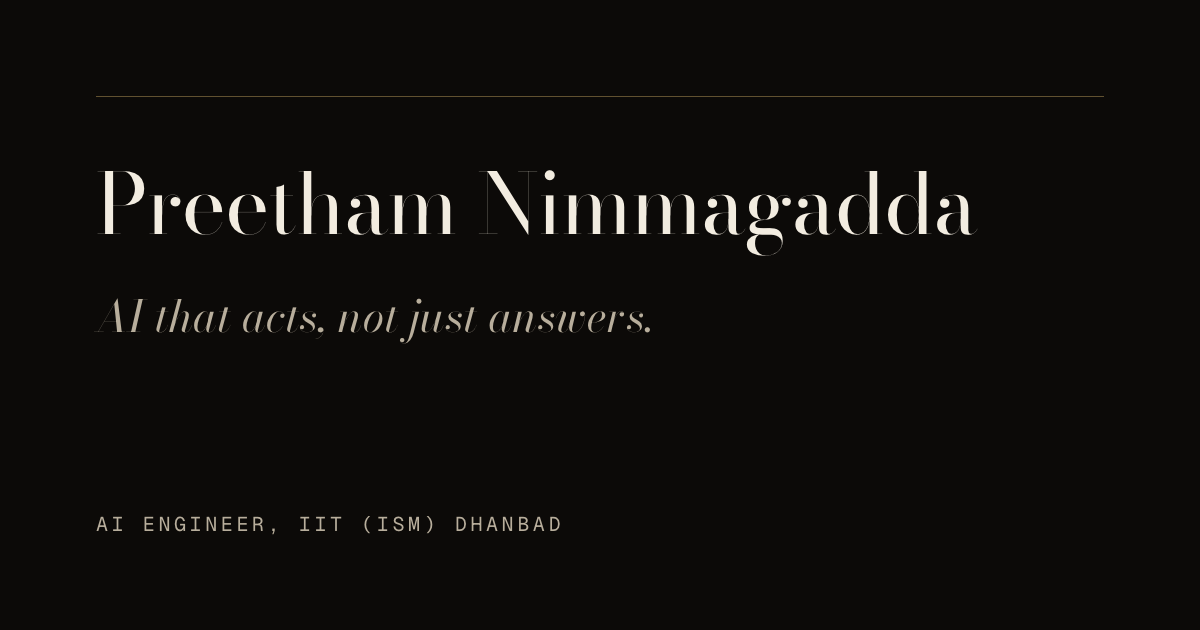
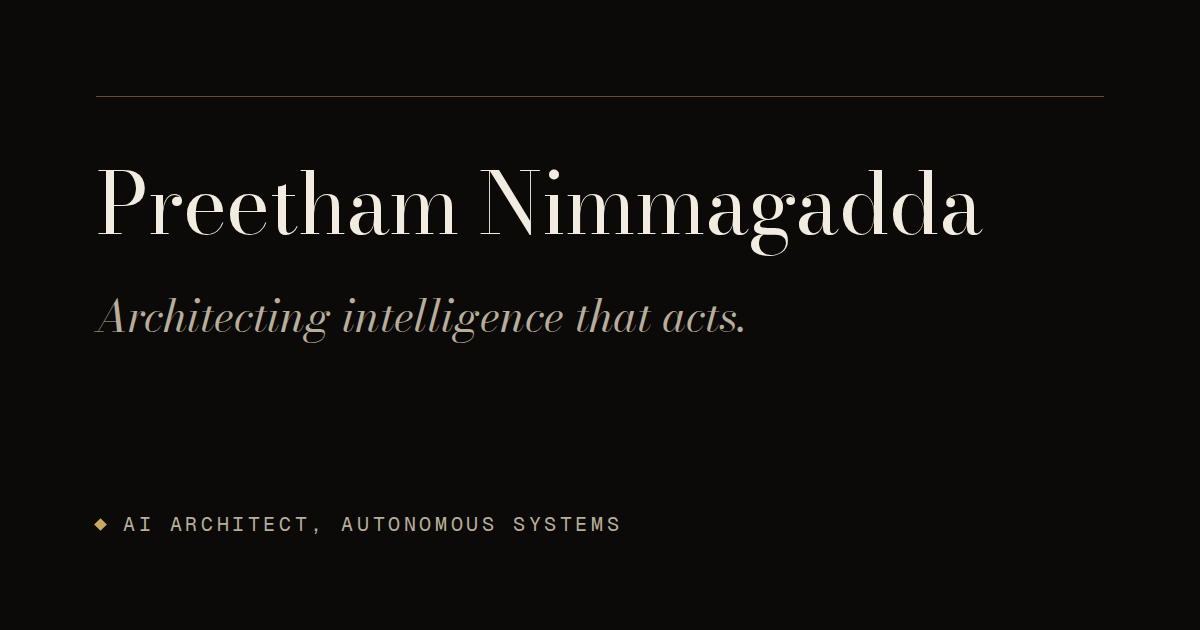
feat: re-render the social card for the AI architect positioning
The Open Graph image still read "AI that acts, not just answers" over
"AI engineer". It now carries the hero's thesis, "Architecting
intelligence that acts.", and the eyebrow with its gold detent. Rendered
from scripts/brand/og.html at 1200x630 against the Bodoni Moda and Geist
Mono files next/font ships with the build.

Claude-Session: https://claude.ai/code/session_01H1edAU7Jd55YS2Xtd13XP9

diff --git a/scripts/brand/og.html b/scripts/brand/og.html
@@ -37,13 +37,19 @@
     font-weight: 400; font-size: 20px; line-height: 1;
     letter-spacing: 0.18em; text-transform: uppercase;
     color: #B8AE9C; white-space: nowrap;
+    display: flex; align-items: center; gap: 18px;
+  }
+  /* The gold detent the hero sets before its eyebrow. */
+  .mark {
+    display: block; width: 9px; height: 9px;
+    background: #C9A961; transform: rotate(45deg);
   }
 </style>
 </head>
 <body>
   <div class="rule"></div>
   <h1 class="name">Preetham Nimmagadda</h1>
-  <p class="thesis">AI that acts, not just answers.</p>
-  <p class="eyebrow">AI ENGINEER, IIT (ISM) DHANBAD</p>
+  <p class="thesis">Architecting intelligence that acts.</p>
+  <p class="eyebrow"><span class="mark"></span>AI ARCHITECT, AUTONOMOUS SYSTEMS</p>
 </body>
 </html>
